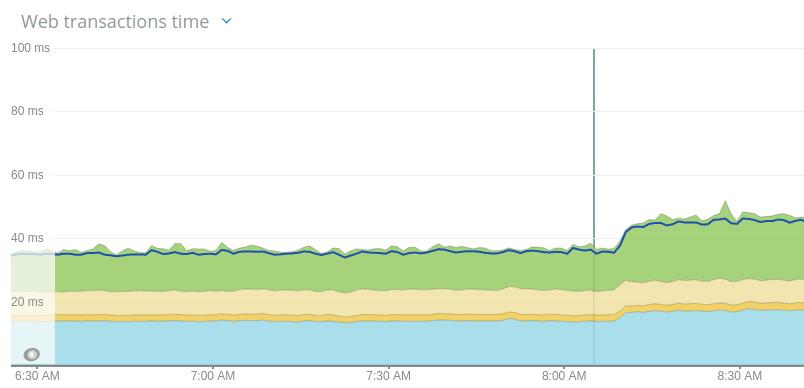
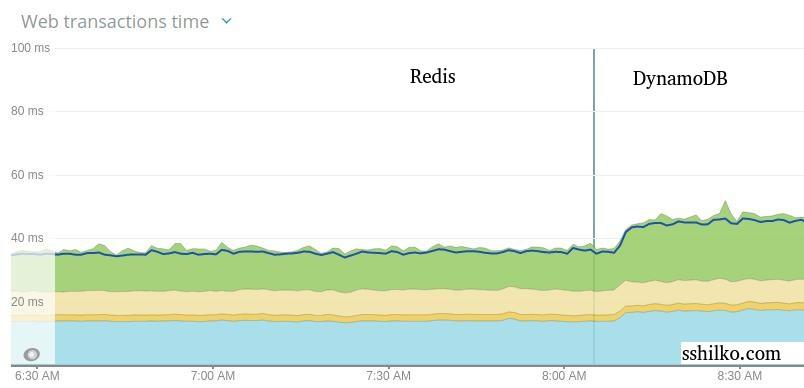
update

diff --git a/_posts/2021-02-19-DynamoDB-Chats.md b/_posts/2021-02-19-DynamoDB-Chats.md
@@ -17,19 +17,18 @@ The design of the messaging feature stayed stable and scaled from thousand of us
 using it now.
 Every year part of messaging system that was storing the opponents list required maintenance and downtime.
 
-When designing the data storage the application is using both 
-* SQL (RDS)
-* NoSQL (AWS Elasticache)
+Messaging data storage is using both 
 
-SQL for long-time storage, and Redis for fast hot-cache.
+* SQL (RDS) for long-term storage
+* NoSQL (AWS Elasticache) for hot-cache
 
 #### Issues with Redis
 
-While amount of users that use messaging constantly increases, we found some issues with using Redis
+Amount of users that use messaging constantly increases, we found issues with using Redis
 
 * Storage of Redis is memory, and only way to scale memory is upgrading instance type
-* Cost of upgrade doubles every time, and it looked like we need to upgrade every 6-9 months
-* Some data we store in redis was rarely accessed, and less than 50% of data was really "hot"
+* Cost of upgrade doubles every time, and we may have to upgrade every 6-9 months
+* % of data we store in redis was rarely accessed, only <50% of data was actually "hot"
 * We are paying for 100% of data as if it was "hot" data
 
 #### Goal
@@ -41,7 +40,7 @@ to look for alternative storage
 * Low latency reads/writes
 * Simple access patterns close to key-value database
 * Managed service, ideally on AWS
-* Lower cost TCO compared to AWS ElastiCache
+* Lower TCO compared to AWS ElastiCache
 
 There was one service that we think fits the requirements
 
@@ -65,15 +64,15 @@ into just one DynamoDB table
 * 4 total attributes only
 * 1 LSI (Local Secondary Index) for sorting by timestamp
 
-| owner-id | opponent-id | metadata | timestamp |
+| owner-id, | opponent-id, | metadata, | timestamp |
 |---|---|---|---|
 | 1,a | 2,b | ... | 1613725769  |
 
-Codebase change was relatively simple the storage to Redis was abstracted via interface.
-We implemented new storage adapter that complies with same interfaces.
+Code change was simple: storage to Redis was abstracted via interface.
+Implementing new storage adapter for Dynamo with same interface.
 
 For zero-downtime migration, we first implemented Composite adapter that was replicating
-all changes to both Redis and DynamoDB, so this way all the "active" data was replicated all the time.
+all changes to both Redis and DynamoDB.
 
 In background we launched jobs that will migrate 100% of data from Redis to DynamoDB in (non active data).
 
@@ -82,15 +81,8 @@ In background we launched jobs that will migrate 100% of data from Redis to Dyna
 Two months, 30GB and 240 million dynamodb "item count" later, 
 after all background migrations finished, we now swapped the Composite adapter for DynamoDB adapter only.
 
-New DynamoDB
-* 1 table
-* >400 rCU
-* >500 wCU  
-* 4ms Put latency
-* 7ms Query latency
-* 300 query returned item count average
-
-Old Redis 5.0
+Before
+* Redis 5.0
 * ~1..2ms latency
 * 8 CPU, 52GB RAM, ~600$/month
 * 3% CPU usage
@@ -101,14 +93,23 @@ Old Redis 5.0
 * 15000 SortedSet commands
 * db0:keys=153161846
 
+After
+* AWS DynamoDB
+* 1 table
+* ~400 rCU
+* ~500 wCU  
+* 4ms Put latency
+* 7ms Query latency
+* 300 query returned item count average
+
 Overall API response times.
 ![migration-1](/images/dynamoredis/migration-1.jpg)
 
 DynamoDB response times.
-![migration-2-dynamodb-external](/images/dynamoredis/migration-2-dynamodb-external.png)
+![migration-2-dynamodb-external](/images/dynamoredis/migration-2-dynamodb-external.jpg)
 
 Affected messaging API for message opponents list.
-![migration-3-api-opponent-list](/images/dynamoredis/migration-3-api-opponent-list.png)
+![migration-3-api-opponent-list](/images/dynamoredis/migration-3-api-opponent-list.jpg)
 
 #### Summary
 
